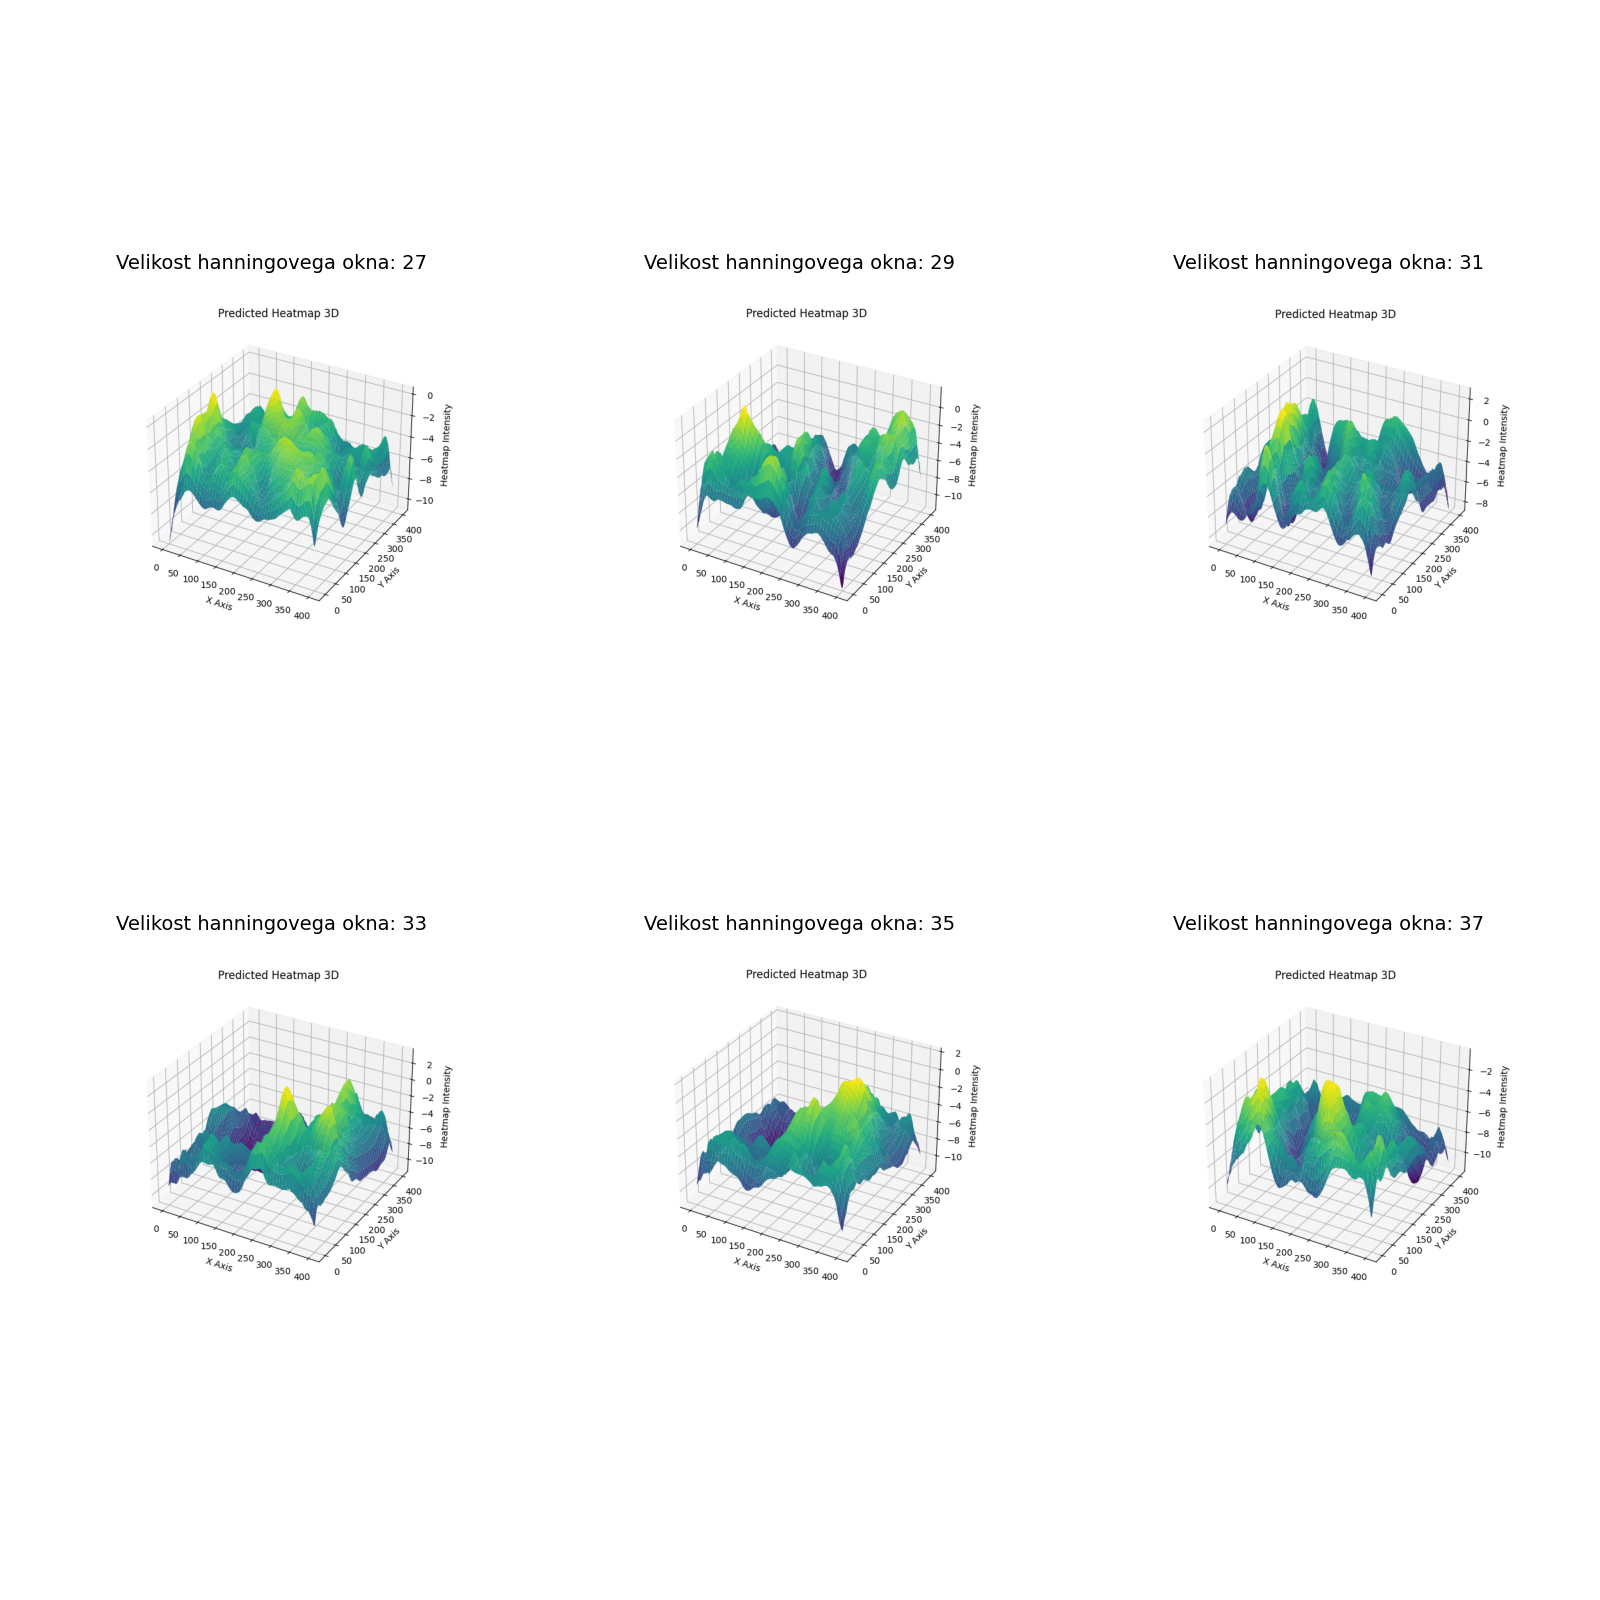
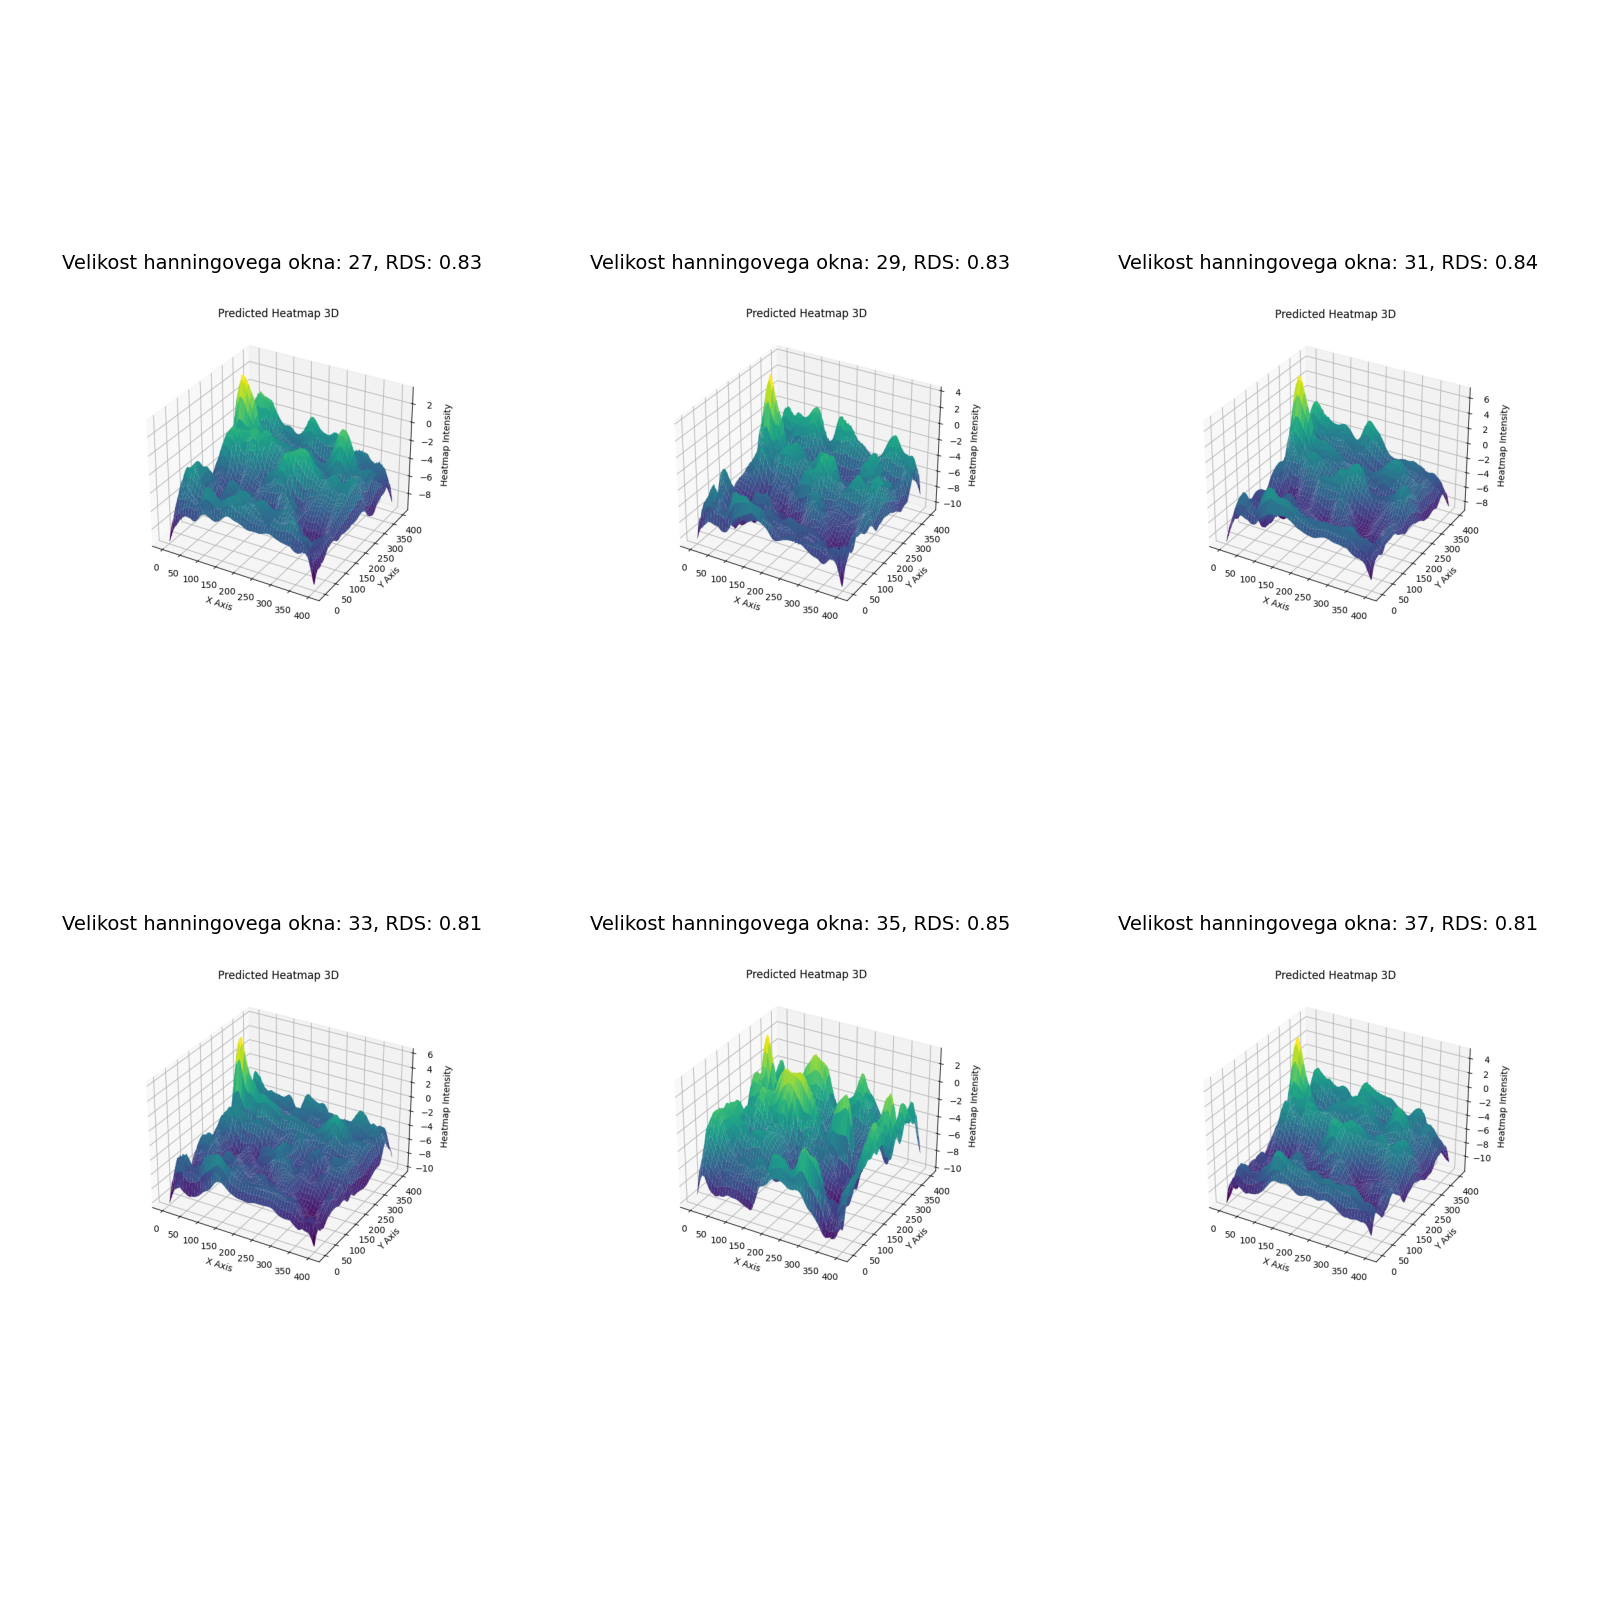
3d plots were wrong, include RDS values also

diff --git a/utils/plot3d_heatmaps.py b/utils/plot3d_heatmaps.py
@@ -3,6 +3,7 @@
 import os
 import csv
 import math
+import json
 import matplotlib.pyplot as plt
 import matplotlib.image as mpimg
 
@@ -16,7 +17,6 @@ def parse_hann_kers_csv(file_path):
         reader = csv.reader(file)
         next(reader)  # skip header
         for row in reader:
-            print(row)
             size, hash_value = row
             hash_to_kernel[hash_value.strip()] = size
     return hash_to_kernel
@@ -31,13 +31,30 @@ def get_kernel_size_from_file(file, hash_to_kernel):
     return int(hash_to_kernel.get(hash_value, 0))
 
 
+def get_rds_from_file(file_name, directory):
+    """
+    Extract RDS value from the JSON file corresponding to the given image file name.
+    """
+    json_file_name = file_name.replace("_3d_hm_", "_").replace(".png", ".json")
+    json_path = os.path.join(directory, json_file_name)
+
+    try:
+        with open(json_path, "r") as f:
+            data = json.load(f)
+            return data["rds"]
+    except (FileNotFoundError, KeyError):
+        return None
+
+
 def plot_images_from_directory(directory, hash_to_kernel):
     """
-    Plot images from a directory with Hann kernel size as title.
+    Plot images from a directory with Hann kernel size and RDS as title.
     """
     files = [
         f for f in os.listdir(directory) if os.path.isfile(os.path.join(directory, f))
     ]
+
+    files = [f for f in files if not f.endswith(".json")]
 
     # Sort files by kernel size
     files = sorted(files, key=lambda f: get_kernel_size_from_file(f, hash_to_kernel))
@@ -56,13 +73,19 @@ def plot_images_from_directory(directory, hash_to_kernel):
             hash_value = hash_value.split("-")[0].strip()
             kernel_size = hash_to_kernel.get(hash_value, "Unknown")
 
+            rds_value = get_rds_from_file(file, directory)
+            title = f"Velikost hanningovega okna: {kernel_size}"
+
+            if rds_value is not None:
+                title += f", RDS: {rds_value:.2f}"
+
             img_path = os.path.join(directory, file)
             img = mpimg.imread(img_path)
 
             ax = plt.subplot(2, 3, idx + 1)  # 2 rows, 3 columns for 6 images
             ax.imshow(img)
             ax.axis("off")  # Hide axes
-            ax.set_title(f"Velikost hanningovega okna: {kernel_size}", fontsize=14)
+            ax.set_title(title, fontsize=14)
 
         plt.tight_layout()
         plt.savefig(f"res/heatmaps3d_{plot_idx + 1}.png")
